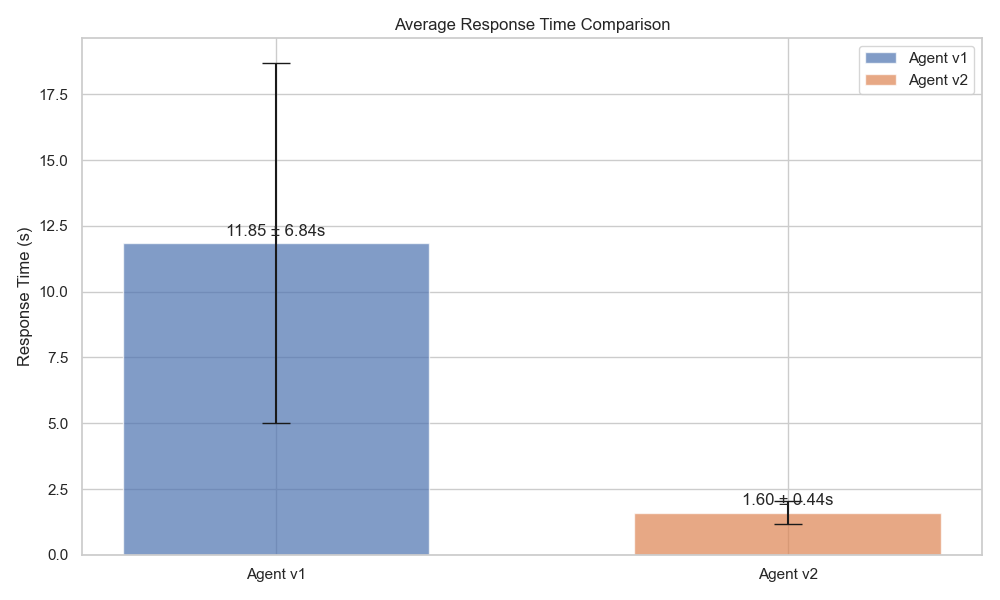
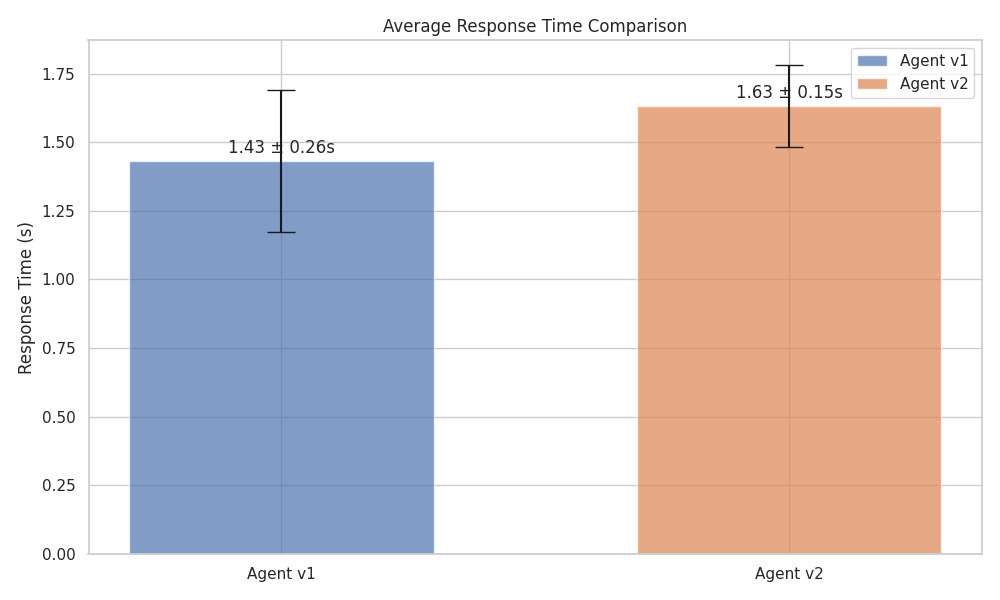
feat: 評価レポートと結果の更新、メトリクス比較の画像を差し替え

Changed region(s): [[0.0, 0.03, 0.992, 0.99], [0.248, 0.69, 0.279, 0.72]]

diff --git a/results/evaluation_report.md b/results/evaluation_report.md
@@ -1,6 +1,6 @@
 # GitHub Copilot Agent Evaluation Report
 
-Generated at: 2025-06-25T19:51:12.429792
+Generated at: 2025-07-03T00:05:45.998829
 
 ## 📊 Summary
 
@@ -20,14 +20,20 @@ Generated at: 2025-06-25T19:51:12.429792
 ### Average Metrics
 | Metric | Agent v1 | Agent v2 | Difference |
 |--------|----------|----------|------------|
-| jaccard_similarity | 0.020 | 0.040 | +0.020 |
-| bleu_score | 0.002 | 0.004 | +0.001 |
-| rouge_1 | 0.039 | 0.066 | +0.027 |
-| rouge_2 | 0.005 | 0.013 | +0.007 |
-| rouge_l | 0.038 | 0.066 | +0.028 |
-| response_time (s) | 11.855 | 1.605 | -10.250 |
+| jaccard_similarity | 0.085 | 0.075 | -0.010 |
+| bleu_score | 0.019 | 0.015 | -0.004 |
+| rouge_1 | 0.161 | 0.143 | -0.018 |
+| rouge_2 | 0.022 | 0.018 | -0.004 |
+| rouge_l | 0.147 | 0.132 | -0.015 |
+| response_time (s) | 1.431 | 1.633 | +0.202 |
 
 ![Metrics Comparison](metrics_comparison.png)
+
+## 📉 Historical Trend Analysis
+
+![Historical Success Rate](historical_success_rate.png)
+
+![Historical Response Time](historical_response_time.png)
 
 ## 📋 Detailed Results
 
@@ -35,11 +41,11 @@ Generated at: 2025-06-25T19:51:12.429792
 
 | ID | Type | Difficulty | v1 Success | v2 Success | v1 Jaccard | v2 Jaccard | v1 BLEU | v2 BLEU | v1 ROUGE-L | v2 ROUGE-L | v1 Time (s) | v2 Time (s) |
 |----|------|------------|------------|------------|------------|------------|---------|---------|------------|------------|-------------|-------------|
-| bug_fix_1 | bug_fix | hard | ✅ | ✅ | 0.023 | 0.052 | 0.004 | 0.008 | 0.043 | 0.085 | 6.03 | 1.19 |
-| code_review_1 | code_review | medium | ✅ | ✅ | 0.037 | 0.047 | 0.004 | 0.004 | 0.077 | 0.100 | 8.64 | 1.38 |
-| pr_creation_1 | pr_creation | easy | ✅ | ✅ | 0.011 | 0.035 | 0.001 | 0.002 | 0.019 | 0.034 | 17.83 | 2.02 |
-| refactor_1 | refactoring | easy | ✅ | ✅ | 0.021 | 0.039 | 0.001 | 0.003 | 0.033 | 0.060 | 6.23 | 1.31 |
-| test_case_1 | test_creation | medium | ✅ | ✅ | 0.009 | 0.026 | 0.001 | 0.002 | 0.017 | 0.049 | 20.55 | 2.13 |
+| bug_fix_1 | bug_fix | hard | ✅ | ✅ | 0.032 | 0.026 | 0.013 | 0.011 | 0.062 | 0.051 | 1.80 | 1.78 |
+| code_review_1 | code_review | medium | ✅ | ✅ | 0.152 | 0.125 | 0.035 | 0.026 | 0.300 | 0.255 | 1.59 | 1.74 |
+| pr_creation_1 | pr_creation | easy | ✅ | ✅ | 0.167 | 0.167 | 0.029 | 0.024 | 0.235 | 0.244 | 1.33 | 1.40 |
+| refactor_1 | refactoring | easy | ✅ | ✅ | 0.074 | 0.059 | 0.019 | 0.013 | 0.138 | 0.111 | 1.21 | 1.60 |
+| test_case_1 | test_creation | medium | ✅ | ✅ | 0.000 | 0.000 | 0.000 | 0.000 | 0.000 | 0.000 | 1.22 | 1.64 |
 </details>
 
 ## ⚙ Configuration
@@ -48,8 +54,8 @@ Generated at: 2025-06-25T19:51:12.429792
 
 ```json
 {
-  "agent_v1_endpoint": "https://generativelanguage.googleapis.com/v1beta/models/gemini-2.0-flash:generateContent",
-  "agent_v2_endpoint": "https://api.groq.com/openai/v1/chat/completions/meta-llama/llama-4-maverick-17b-128e-instruct",
+  "agent_v1_endpoint": null,
+  "agent_v2_endpoint": null,
   "agent_v2_model": null,
   "api_key_v1": "***REDACTED***",
   "api_key_v2": "***REDACTED***",
@@ -57,7 +63,8 @@ Generated at: 2025-06-25T19:51:12.429792
   "results_dir": "results",
   "timeout": 60,
   "max_retries": 3,
-  "retry_delay": 5
+  "retry_delay": 5,
+  "demo_mode": true
 }
 ```
 </details>
